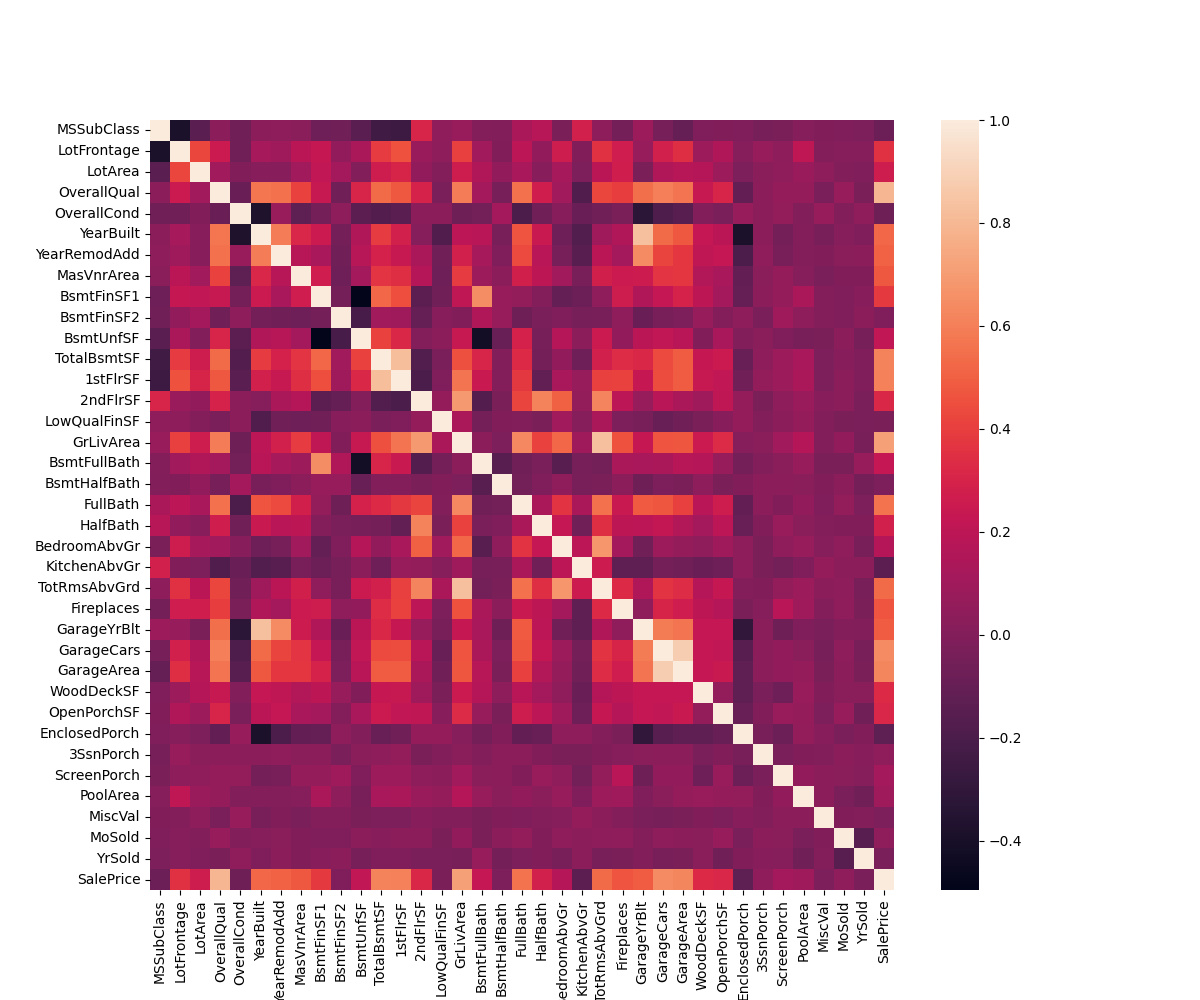
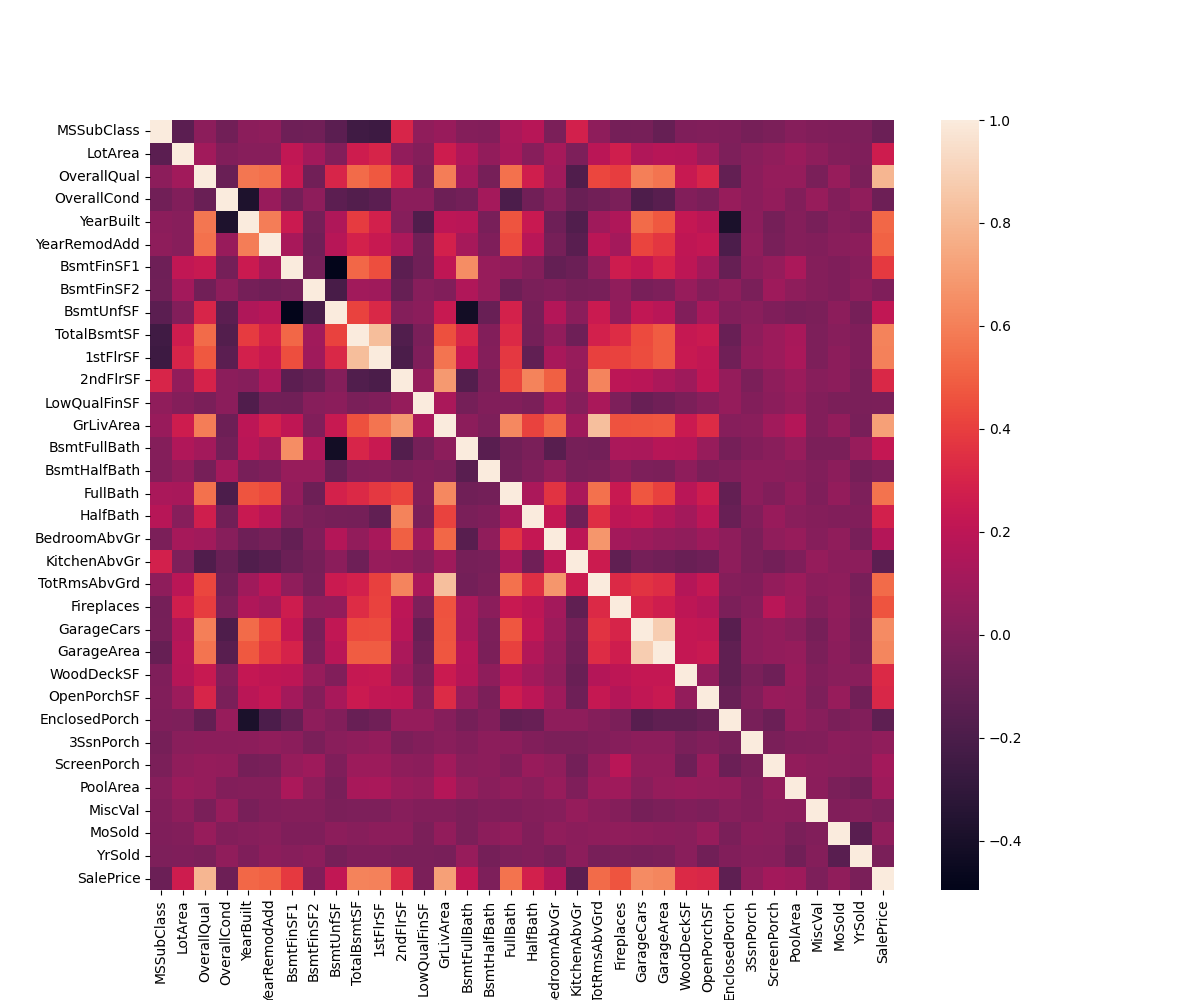
feat(main.py):added random forests and XGBoost regression models

Changed region(s): [[0.0308, 0.124, 0.7708, 1.0], [0.6783, 0.155, 0.7708, 0.589], [0.6475, 0.124, 0.6783, 0.186]]

diff --git a/src/main.py b/src/main.py
@@ -4,6 +4,8 @@ import seaborn as sns
 from sklearn.model_selection import train_test_split
 from sklearn.metrics import mean_absolute_error
 from sklearn.linear_model import LinearRegression
+from sklearn.ensemble import RandomForestRegressor
+from xgboost import XGBRegressor
 
 # Loading Data
 df = pd.read_csv("../data/raw/train.csv")
@@ -75,3 +77,18 @@ preds = linear_model.predict(X_valid)  # apply learned coefficient to validation
 mae = mean_absolute_error(y_valid, preds)
 print(f"Linear Regression MAE: {mae:,.2f}")
 
+# Random Forests
+rf_model = RandomForestRegressor(n_estimators=500, random_state=42, n_jobs=-1)
+rf_model.fit(X_train, y_train)
+rf_preds = rf_model.predict(X_valid)
+rf_mae = mean_absolute_error(y_valid, rf_preds)
+print(f"Random Forest MAE: {rf_mae:,.2f}")
+
+# XGBoost
+xgb_model = XGBRegressor(
+    n_estimators=1000, learning_rate=0.05, max_depth=6, random_state=42
+)
+xgb_model.fit(X_train, y_train)
+xgb_preds = xgb_model.predict(X_valid)
+xgb_mae = mean_absolute_error(y_valid, xgb_preds)
+print(f"XGBoost MAE: {xgb_mae:,.2f}")